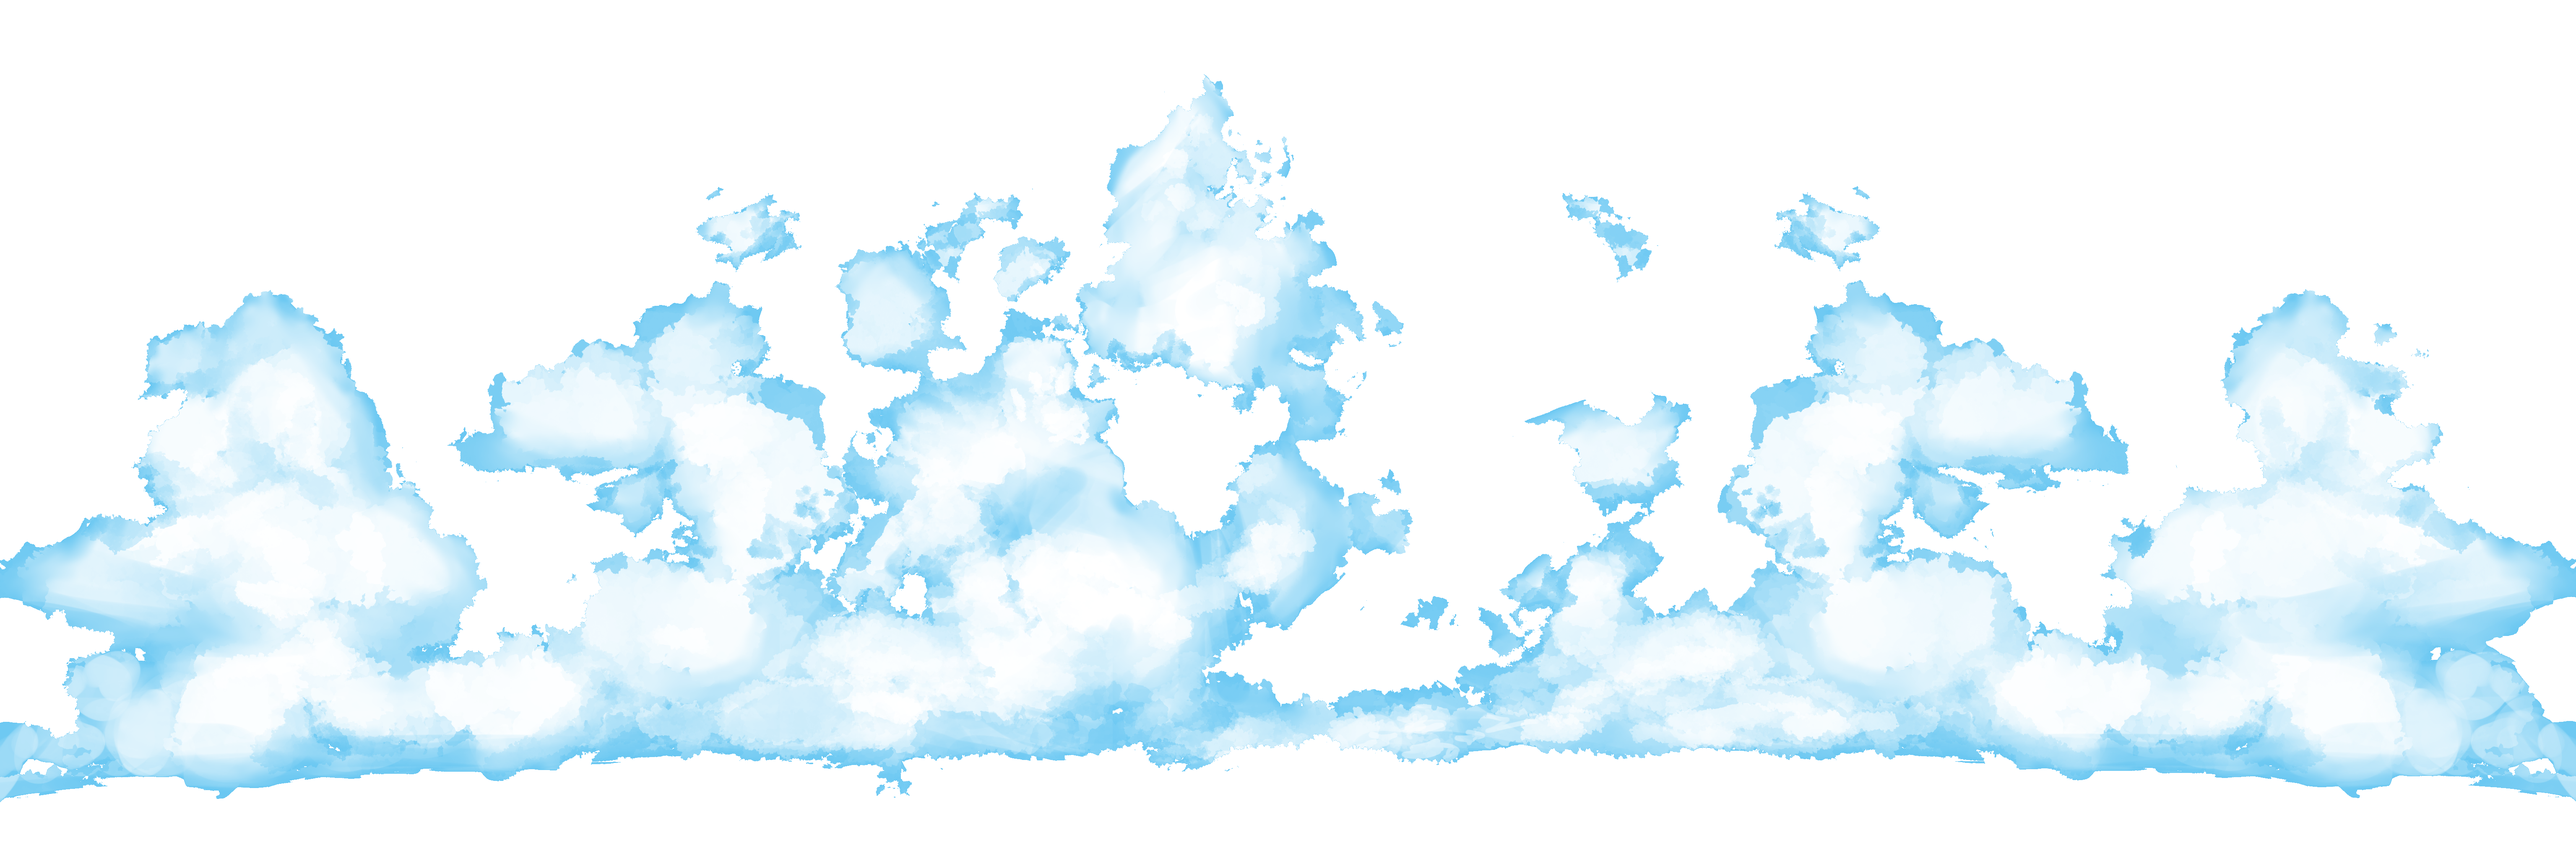
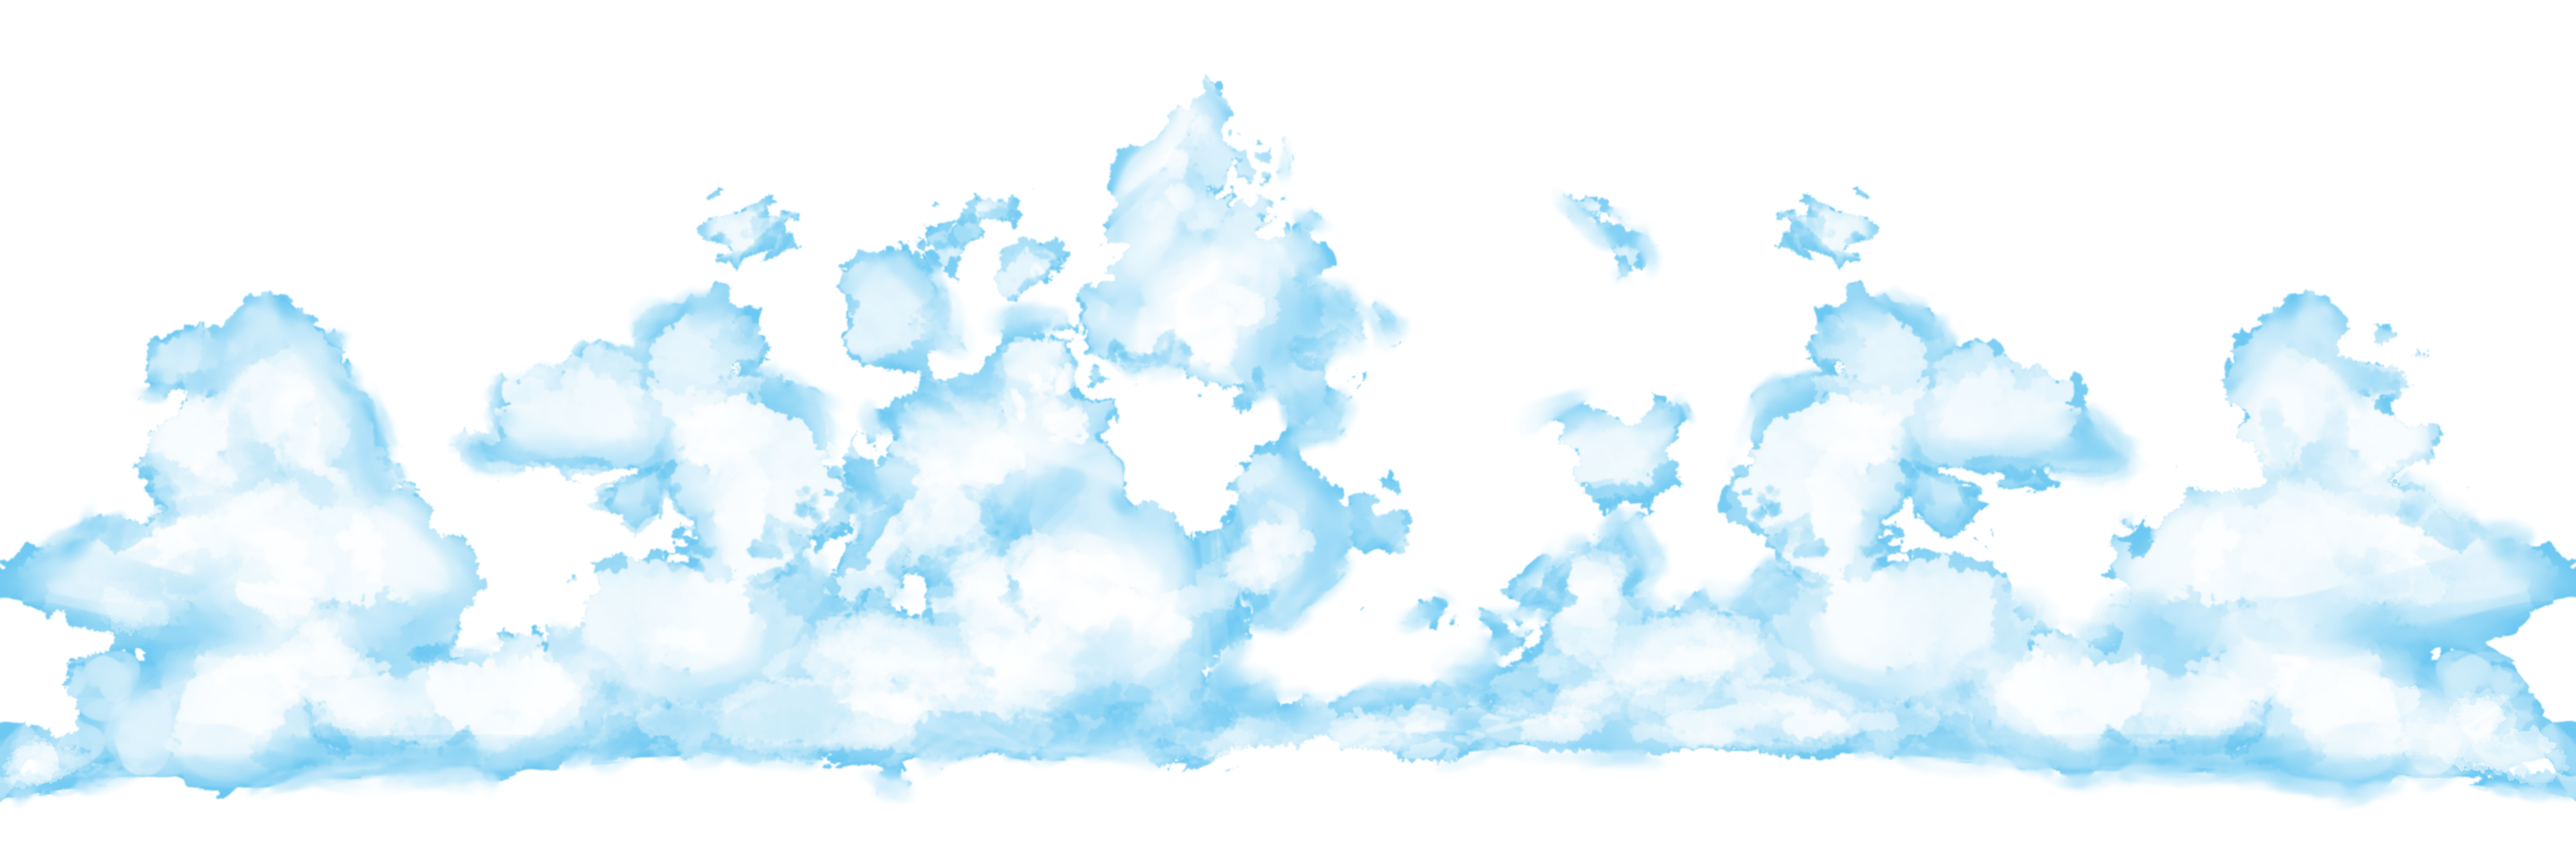
offscreenTextureのalphaを1にするよう修正

diff --git a/SEED/SEED/source/SEED.cpp b/SEED/SEED/source/SEED.cpp
@@ -18,7 +18,7 @@
 SEED* SEED::instance_ = nullptr;
 std::wstring SEED::windowTitle_ = L"SEED";
 std::wstring SEED::systemWindowTitle_ = L"SEED::System";
-uint32_t SEED::windowBackColor_ = 0;//yMath::IntColor(0,160,232,255);
+uint32_t SEED::windowBackColor_ = 0x000000ff;//yMath::IntColor(0,160,232,255);
 
 
 ///////////////////////////////////////////////////////////////////////////////////////////////////////////////////
@@ -83,6 +83,13 @@ void SEED::Initialize(int clientWidth, int clientHeight, HINSTANCE hInstance, in
 
     // 起動時読み込み
     instance_->StartUpLoad();
+
+    // offscreenの画面のアルファ値を1にするためのcolor{0,0,0,1}のスプライトを作成
+    instance_->offscreenWrapper_ = std::make_unique<Sprite>("Assets/white1x1.png");
+    instance_->offscreenWrapper_->size = { (float)clientWidth,(float)clientHeight };
+    instance_->offscreenWrapper_->color = MyMath::FloatColor(0, 0, 0, 1);
+    instance_->offscreenWrapper_->blendMode = BlendMode::ADD;// 深度書き込みをしないため、加算合成で描画
+    instance_->offscreenWrapper_->isStaticDraw = false;
 }
 
 /*------------------------- 終了処理 ---------------------------*/
@@ -119,6 +126,9 @@ void SEED::BeginFrame(){
 /*----------------------- フレーム終了処理 ----------------------*/
 
 void SEED::EndFrame(){
+    // offscreenの画面のアルファ値を1にするため、color{0,0,01}のスプライトを表示
+    instance_->offscreenWrapper_->Draw();
+
     // 描画
     DxManager::GetInstance()->DrawPolygonAll();
     ImGuiManager::PostDraw();

diff --git a/SEED/SEED/Source/SEED.h b/SEED/SEED/Source/SEED.h
@@ -162,7 +162,8 @@ public:
 private:// インスタンス
     static SEED* instance_;
 
-private:// 監視用変数
+private:
+    std::unique_ptr<Sprite> offscreenWrapper_;
 
 public:// ウインドウに関する変数
     int kClientWidth_;

diff --git a/SEED/SEED/source/SEED.h b/SEED/SEED/source/SEED.h
@@ -162,7 +162,8 @@ public:
 private:// インスタンス
     static SEED* instance_;
 
-private:// 監視用変数
+private:
+    std::unique_ptr<Sprite> offscreenWrapper_;
 
 public:// ウインドウに関する変数
     int kClientWidth_;
